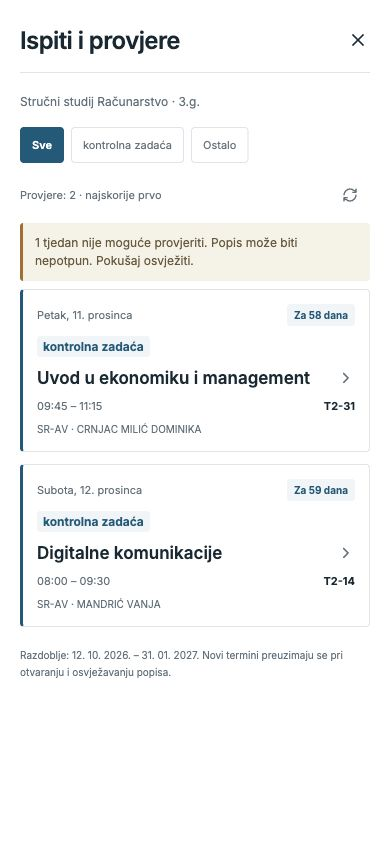
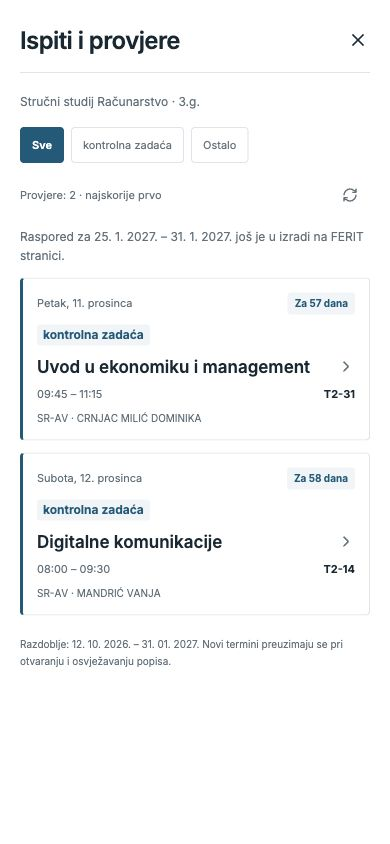
Clarify unpublished-week notice in version 1.0.14

diff --git a/docs/guide.md b/docs/guide.md
@@ -52,7 +52,7 @@ Otvori **Postavke → Ispiti i provjere** za nadolazeće ispite i druge provjere
 
 Filtri koriste stvarne oznake iz FERIT rasporeda, primjerice **kontrolna zadaća**, **Kolokvij** ili **teorijski kolokvij**, kada su objavljene. Oznake su vidljive i na terminima u dnevnom i tjednom rasporedu, čak i kada je vrsta nastave AV, PR ili LV.
 
-Popis pri otvaranju i osvježavanju provjerava trenutačni i sljedećih 15 tjedana. Ako neki tjedan nije dostupan, vidiš upozorenje da popis može biti nepotpun. Bez interneta mogu se prikazati prethodno spremljeni tjedni.
+Popis pri otvaranju i osvježavanju provjerava trenutačni i sljedećih 15 tjedana. Ako FERIT još priprema raspored za neki tjedan, vidiš njegove datume i obavijest da je raspored još u izradi na FERIT stranici. Problemi s dohvatom imaju zasebno upozorenje da popis može biti nepotpun. Bez interneta mogu se prikazati prethodno spremljeni tjedni.
 
 <img src="19-upcoming-exams.png" width="280" alt="Ispiti i provjere s izvornim oznakama, datumima, odbrojavanjem, vremenom i lokacijom"> <img src="20-assessment-in-schedule.png" width="280" alt="Kontrolna zadaća iz Digitalnih komunikacija ostaje označena u dnevnom rasporedu">
 
